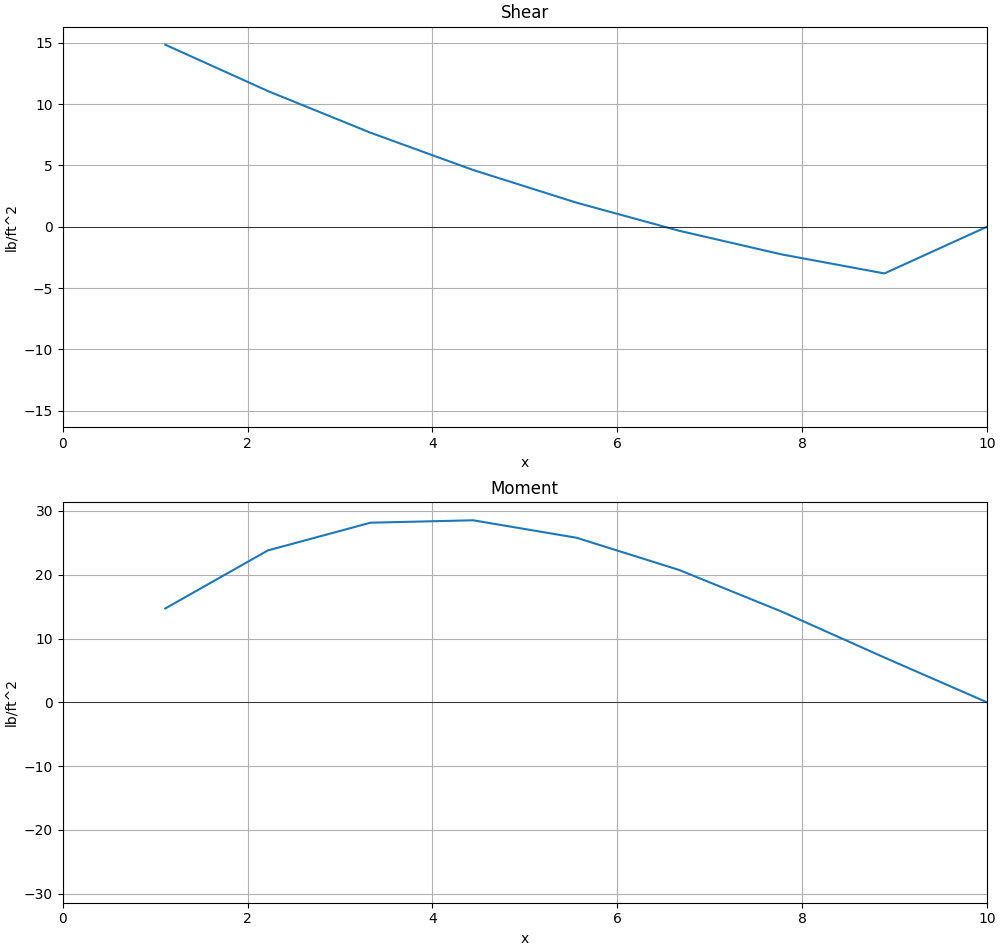
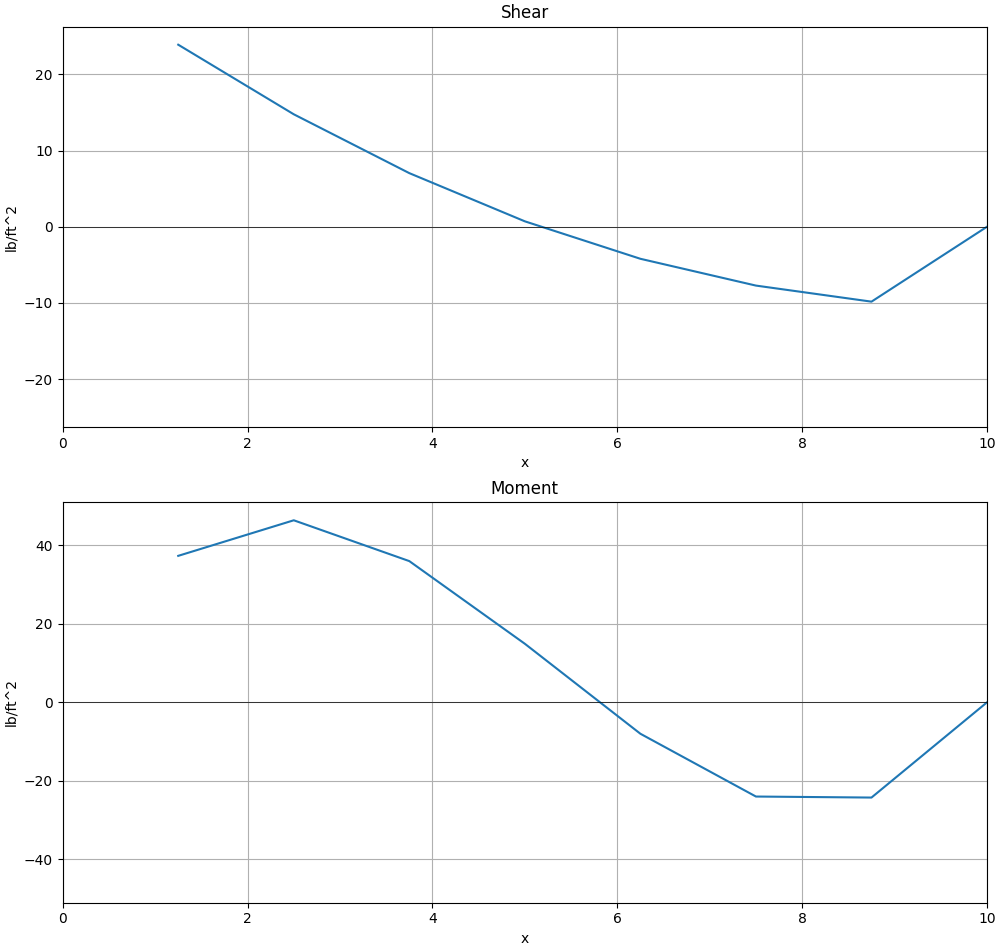
stuck ...

diff --git a/calc.h b/calc.h
@@ -2,14 +2,13 @@
 #include <math.h>
 
 
-float weight(float x1, float x2, float factor, float y1, float y2, float slope) {
+float weight(float x1, float x2, float factor, float y1, float y2, float slope, int pos) {
     if (fabsf(slope) < 0.01 | fabsf(factor) <= 0.01) {
 	float result = (x2 - x1) * y1;
 	// printf("weight c %f\n", result);
 	return result;
     }
     // printf("slope: %0.2f\n", slope);
-    printf("x1: %.2f, x2: %.2f, y1: %.2f, y2: %.2f\n", x1, x2, y1, y2);
     float term1, term2, term1c, term2c, result;
     if (slope > 0) {
 	term1 = slope / (factor + 1) * pow(x2, factor + 1);
@@ -21,14 +20,27 @@ float weight(float x1, float x2, float factor, float y1, float y2, float slope) 
 	// term1c = y2 * x2;
 	// term2c = y2 * x1;
 	// slope = -slope;
-	// printf("slope: %0.2f\n", slope);
 
 	slope = -slope;
-	term2 = slope / (factor + 1) * pow(-(x2-y1), factor + 1);
-	term2c = y1 * -(x2-y1);
+	printf("slope: %0.2f\n", slope);
+	x1 = pow((y1-y2)/slope, 1/factor);
+	x2 = x1 - x2;
+	// printf("x1: %.2f, x2: %.2f, y1: %.2f, y2: %.2f\n", x1, x2, y1, y2);
+	term2 = slope / (factor + 1) * pow(x2, factor + 1);
+	term1 = slope / (factor + 1) * pow(x1, factor + 1);
+	term2c = y2 * x2;
+	term1c = y2 * x1;
+	if (pos) {
+	    printf("2233");
+	    term2c *= x2;
+	    term1c *= x1;
+	}
+	
+	// term2 = slope / (factor + 1) * pow(-(x2-y1), factor + 1);
+	// term2c = y1 * -(x2-y1);
 	// term2c = 0;
-	term1 = slope / (factor + 1) * pow(-(x1-y1), factor + 1);
-	term1c = y2 * -(x1-y1);
+	// term1 = slope / (factor + 1) * pow(-(x1-y1), factor + 1);
+	// term1c = y2 * -(x1-y1);
 	// term1c = 0;
 
 	// term1 = slope / (factor + 1) * pow(x2, factor + 1);
@@ -46,18 +58,30 @@ float weight(float x1, float x2, float factor, float y1, float y2, float slope) 
 }
 
 
-float position(float x1, float x2, float factor, float y1, float y2) {
+float position(float x1, float x2, float factor, float y1, float y2, float slope) {
     float fraction = (x2 - x1) / (factor + 2);
+    // printf("%f\n", factor+2);
+    float base_frac = (x2 - x1) / 2;
+    float a1 = weight(x1, x2, factor, y1, y2, -0.9, 1);
+    float a1x = weight(x1, x2, factor+1, y1, y2, -0.9, 1);
+    float xbar = a1x/a1;
+    printf("xbar: %.2f\n", xbar);
     // printf("x1: %0.2f, x2: %.2f\n", x1, x2);
     // printf("fraction: %.2f\n", fraction);
     float position;
+    
+    printf("x1: %.2f, x2: %.2f, y1: %.2f, y2: %.2f\n", x1, x2, y1, y2);
     if (y1 < y2) {
-	position = x2 - fraction;
+	float a2 = (x2 - x1) * y1;
+	fraction = x2 - fraction;
+	position = (fraction * a1 + base_frac * a2) / (a1 + a2);
     } else if (y1 > y2) {
-	position = x1 + fraction;
+	float a2 = (x2 - x1) * y2;
+	fraction = x1 + fraction;
+	position = (fraction * a1 + base_frac * a2) / (a1 + a2);
     } else {
 	position = (x1 + x2) / 2;
     }
-    // printf("position %f\n", position);
-    return position;
+    printf("position %f\n", xbar);
+    return xbar;
 }

diff --git a/beams.c b/beams.c
@@ -27,7 +27,7 @@ float solve_shear_d(point_force support_reactions[], point_force pf_array[], des
 	// sum the destributed load forces
 	for (int i = 0; i < num_dloads; i++) {
 		if (x >= d_load_array[i].start && x <= d_load_array[i].stop) {
-			float dweight = weight(d_load_array[i].start, x, d_load_array[i].factor, d_load_array[i].pressure, d_load_array[i].pressure2, d_load_array[i].slope);
+			float dweight = weight(d_load_array[i].start, x, d_load_array[i].factor, d_load_array[i].pressure, d_load_array[i].pressure2, d_load_array[i].slope, 0);
 			printf("sweight: %.2f\n", dweight);
 			dload += (dweight);
 		} else if (x > d_load_array[i].stop) {
@@ -66,9 +66,9 @@ float solve_moment_d(point_force support_reactions[], point_force pf_array[], de
 	// sum the moment of the destributed loads
 	for (int i = 0; i < num_dloads; i++) {
 		if (x >= d_load_array[i].start && x <= d_load_array[i].stop) {
-			float n_w = weight(d_load_array[i].start, x, d_load_array[i].factor, d_load_array[i].pressure, d_load_array[i].pressure2, d_load_array[i].slope) * (x - position(d_load_array[i].start, x, d_load_array[i].factor, d_load_array[i].pressure, d_load_array[i].pressure2));
-			printf("diff: %f\n", (x - position(d_load_array[i].start, x, d_load_array[i].factor, d_load_array[i].pressure, d_load_array[i].pressure2)));
-			printf("weight: %f\n", weight(d_load_array[i].start, x, d_load_array[i].factor, d_load_array[i].pressure, d_load_array[i].pressure2, d_load_array[i].slope));
+			float n_w = weight(d_load_array[i].start, x, d_load_array[i].factor, d_load_array[i].pressure, d_load_array[i].pressure2, d_load_array[i].slope, 0) * (x - position(d_load_array[i].start, x, d_load_array[i].factor, d_load_array[i].pressure, d_load_array[i].pressure2, d_load_array[i].slope));
+			// printf("position: %f\n", (position(d_load_array[i].start, x, d_load_array[i].factor, d_load_array[i].pressure, d_load_array[i].pressure2)));
+			// printf("dweight: %f\n", weight(d_load_array[i].start, x, d_load_array[i].factor, d_load_array[i].pressure, d_load_array[i].pressure2, d_load_array[i].slope));
 			printf("x: %.2f\n", x);
 			// printf("ndload: %.2f\n", n_w);
 			dload += n_w;
@@ -220,7 +220,7 @@ int main() {
 	printf("Reaction A: %0.2f lbs\nReaction B: %0.2f lbs\n", support_reactions[0].magnitude, support_reactions[1].magnitude);
 
 	// make plot points
-	int points = 10;
+	int points = 9;
 	float *x = linspace(0, length, points);
 	float all_shear[points];
 	float all_M[points];

diff --git a/fileio.h b/fileio.h
@@ -162,8 +162,8 @@ void read_txt(point_force R[], point_force P[], dest_load D[], moment M[], float
 
 	    dload.factor = factor;
 	    dload.slope = (dload.pressure2 - dload.pressure) / (dload.stop - dload.start);
-	    dload.weightf = weight(dload.start, dload.stop, dload.factor, dload.pressure, dload.pressure2, dload.slope);
-	    dload.center = position(dload.start, dload.stop, dload.factor, dload.pressure, dload.pressure2);
+	    dload.weightf = weight(dload.start, dload.stop, dload.factor, dload.pressure, dload.pressure2, dload.slope, 0);
+	    dload.center = position(dload.start, dload.stop, dload.factor, dload.pressure, dload.pressure2, dload.slope);
 	    // printf("center: %f\n", dload.center);
 	    // printf("weight: %f\n", dload.weightf);
 
